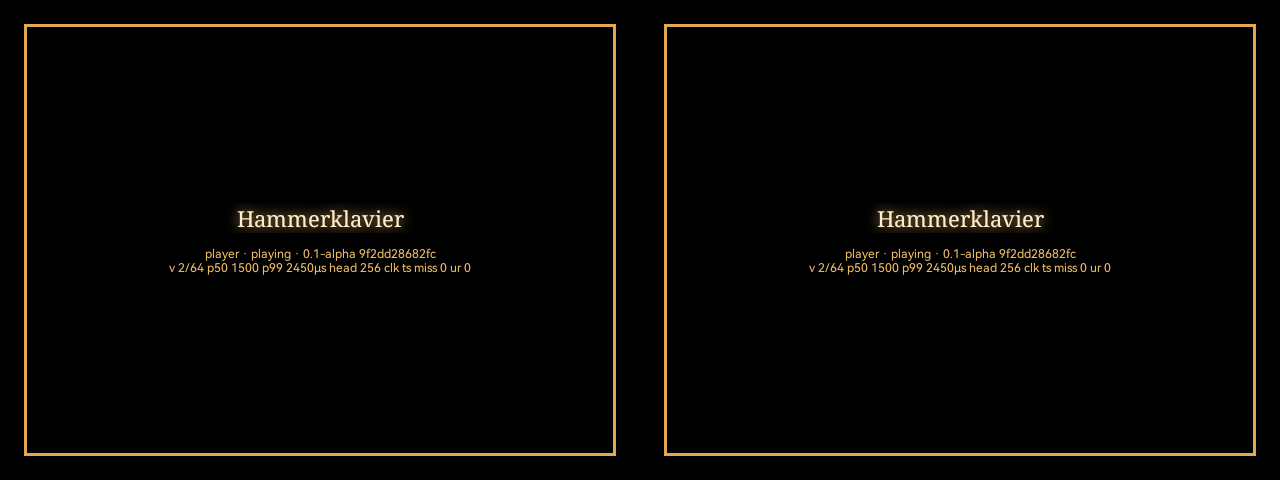
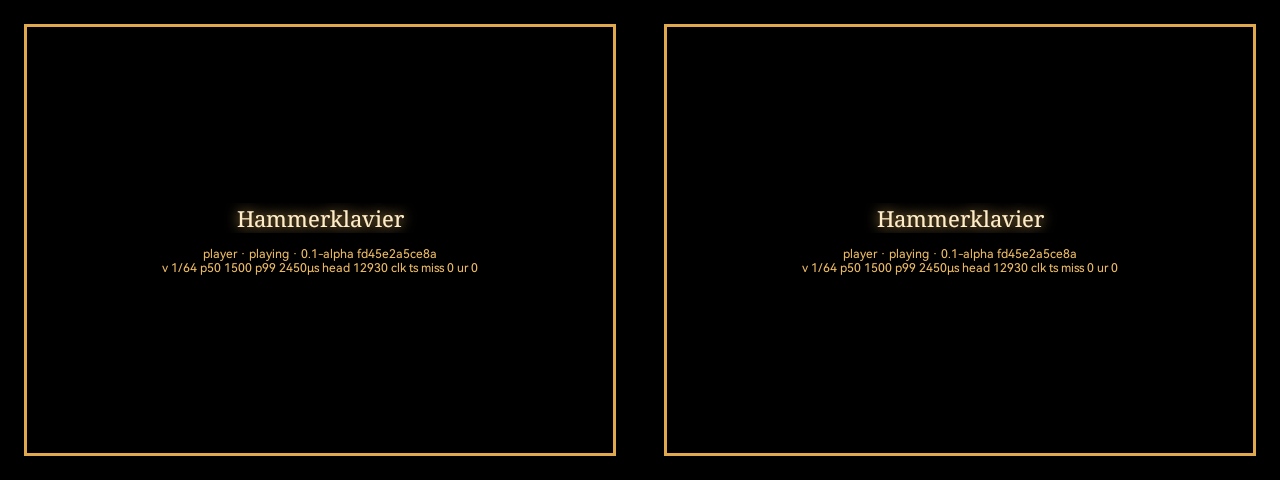
PerfProbe hitch detector and StubGlHost pacing off Choreographer (vendor ScrollOptimizer allocates ~1.5 KB per vsync; T-GC); request to WP6

Changed region(s): [[0.625, 0.5, 0.875, 0.5938], [0.125, 0.5, 0.375, 0.5938]]

diff --git a/app/src/main/java/com/tropicalstream/hammerklavier/contract/stub/android/StubGlHost.kt b/app/src/main/java/com/tropicalstream/hammerklavier/contract/stub/android/StubGlHost.kt
@@ -28,7 +28,7 @@ import javax.microedition.khronos.opengles.GL10
 /**
  * The GL host until WP6 merges (PLAN §2.2, M0): an ES 2.0 GLSurfaceView that clears to black
  * (transparent on the waveguide), logs the GL info once (`HKRender`), and draws a gilt test frame
- * in each eye's viewport with scissored clears (no shaders). Paced by Choreographer: every 6th
+ * in each eye's viewport with scissored clears (no shaders). Paced by a main Handler (M1: not Choreographer, see pace): every 6th
  * vsync (10 fps); nothing while paused or in display rest. RenderControl calls only set fields
  * (§2.1 rule 6); every GL call happens in onSurfaceCreated/onDrawFrame.
  */
@@ -37,6 +37,7 @@ class StubGlHost(ctx: Context) : GLSurfaceView(ctx), GlHost, GLSurfaceView.Rende
 
     @Volatile private var stereo = true
     @Volatile private var divider = 6
+    private val handler = android.os.Handler(android.os.Looper.getMainLooper())
     @Volatile private var resting = false
     @Volatile private var glInfo = ""
     @Volatile private var frames = 0
@@ -93,20 +94,23 @@ class StubGlHost(ctx: Context) : GLSurfaceView(ctx), GlHost, GLSurfaceView.Rende
         GLES20.glScissor(x, y, w, h); GLES20.glClear(GLES20.GL_COLOR_BUFFER_BIT)
     }
 
-    // ── Choreographer pacing (main) ──
-    override fun doFrame(frameTimeNanos: Long) {
-        if (!paced) return
-        if (++vsyncs >= divider) { vsyncs = 0; requestRender() }
-        Choreographer.getInstance().postFrameCallback(this)
+    // ── Pacing (main) ──
+    // A main-thread Handler tick, not a Choreographer frame callback: on this device Qualcomm's
+    // BoostFramework.ScrollOptimizer.setVsyncTime builds strings on every vsync a Choreographer
+    // delivers (~1.5 KB each, ~92 KB/s at 60 Hz), which alone broke T-GC at M1. The stub needs no
+    // vsync phase; WP6's renderer is told in docs/requests/WP6.md.
+    private val pace = object : Runnable {
+        override fun run() {
+            if (!paced) return
+            requestRender()
+            handler.postDelayed(this, divider * VSYNC_MS)
+        }
     }
+    override fun doFrame(frameTimeNanos: Long) {}
 
-    private fun startPacing() {
-        Choreographer.getInstance().removeFrameCallback(this)
-        paced = true
-        Choreographer.getInstance().postFrameCallback(this)
-    }
+    private fun startPacing() { handler.removeCallbacks(pace); paced = true; handler.post(pace) }
 
-    private fun stopPacing() { paced = false; Choreographer.getInstance().removeFrameCallback(this) }
+    private fun stopPacing() { paced = false; handler.removeCallbacks(pace) }
 
     // ── RenderControl (main): fields only ──
     override fun bind(clock: SongClock, energy: EnergyRing, mech: MechanicsEvaluator, scenes: SceneFactory) {}
@@ -132,4 +136,5 @@ class StubGlHost(ctx: Context) : GLSurfaceView(ctx), GlHost, GLSurfaceView.Rende
         out.fps = 0f; out.draws = 0; out.tris = 0; out.divider = divider; out.dipping = false; out.glGeneration = glGeneration
     }
     override fun diagnostics(): Map<String, String> = mapOf("gl" to glInfo, "frames" to frames.toString(), "host" to "StubGlHost")
+    private companion object { const val VSYNC_MS = 17L }
 }

diff --git a/app/src/main/java/com/tropicalstream/hammerklavier/system/PerfProbe.kt b/app/src/main/java/com/tropicalstream/hammerklavier/system/PerfProbe.kt
@@ -2,13 +2,12 @@ package com.tropicalstream.hammerklavier.system
 
 import android.os.Handler
 import android.util.Log
-import android.view.Choreographer
 import com.tropicalstream.hammerklavier.contract.HK
 import java.io.File
 
 /**
  * Performance probe (PLAN §2.2, §8.4), main thread:
- * - a frame-hitch detector: a main-thread Choreographer gap > 120 ms while [resumed] logs
+ * - a frame-hitch detector: the main thread blocked > 120 ms (a late heartbeat) while [resumed] logs
  *   `HKPerf FRAME HITCH <ms>` (smoke fails on it);
  * - `majflt` of one task (the HKAudio tid from [audioTid]) from `/proc/self/task/<tid>/stat` field 12;
  * - `scaling_cur_freq` per CPU and `time_in_state` deltas per policy;
@@ -22,15 +21,22 @@ class PerfProbe(private val main: Handler, private val audioTid: () -> Int = { -
     private var lastMajflt = -1L
     private val lastTis = HashMap<String, LongArray>()
 
-    private val frame = object : Choreographer.FrameCallback {
-        override fun doFrame(t: Long) {
+    /**
+     * Main-thread stall detector: a [BEAT_MS] Handler heartbeat; a beat arriving more than
+     * HITCH_MS late logs `FRAME HITCH <gap>ms`. Not a Choreographer frame callback: every vsync a
+     * Choreographer delivers runs Qualcomm's BoostFramework.ScrollOptimizer.setVsyncTime, which
+     * allocates ~1.5 KB per vsync (~92 KB/s, T-GC failed at M1).
+     */
+    private val frame = object : Runnable {
+        override fun run() {
             if (!resumed) return
+            val t = System.nanoTime()
             if (lastFrameNs != 0L) {
                 val gapMs = (t - lastFrameNs) / 1_000_000
-                if (gapMs > HITCH_MS) { hitches++; Log.w(HK.TAG_PERF, "FRAME HITCH ${gapMs}ms") }
+                if (gapMs - BEAT_MS > HITCH_MS) { hitches++; Log.w(HK.TAG_PERF, "FRAME HITCH ${gapMs - BEAT_MS}ms") }
             }
             lastFrameNs = t
-            Choreographer.getInstance().postFrameCallback(this)
+            main.postDelayed(this, BEAT_MS)
         }
     }
     private val tick = object : Runnable {
@@ -44,9 +50,8 @@ class PerfProbe(private val main: Handler, private val audioTid: () -> Int = { -
     fun setResumed(r: Boolean) {
         if (r == resumed) return
         resumed = r; lastFrameNs = 0L
-        val ch = Choreographer.getInstance()
-        ch.removeFrameCallback(frame)
-        if (r) ch.postFrameCallback(frame)
+        main.removeCallbacks(frame)
+        if (r) main.post(frame)
     }
 
     /** One HKPerf line: majflt (total, delta), CPU frequencies (MHz), time_in_state deltas (top 3 per policy). */
@@ -92,5 +97,5 @@ class PerfProbe(private val main: Handler, private val audioTid: () -> Int = { -
         }
     }
 
-    private companion object { const val HITCH_MS = 120L; const val PERIOD_MS = 10_000L }
+    private companion object { const val HITCH_MS = 120L; const val BEAT_MS = 50L; const val PERIOD_MS = 10_000L }
 }

diff --git a/docs/requests/WP6.md b/docs/requests/WP6.md
@@ -1,0 +1,13 @@
+# Requests to WP6 (from the integrator, M1, 2026-09-22)
+
+## Do not pace from a main-thread Choreographer frame callback (T-GC)
+On the X3 Pro every vsync that a Choreographer delivers runs Qualcomm's
+`android.util.BoostFramework$ScrollOptimizer.setVsyncTime` (reflectively, from
+`Choreographer$FrameDisplayEventReceiver.onVsync`), which builds strings: about 1.5 KB per vsync,
+~92 KB/s at 60 Hz, whenever *any* per-frame callback is pending (simpleperf, debug build). At M1
+this alone caused 3 GCs in 5 min (T-GC limit ≤ 2). The M0 `StubGlHost` pacing and PerfProbe's
+hitch detector were moved to main-thread `Handler` ticks; with both off Choreographer the app
+allocates ~28–36 KB/s and T-GC passes (1 GC in 5 min).
+§5.x's "Choreographer: every 2nd vsync" for `HkGlView` would bring the 92 KB/s back. Options:
+pace on GLThread with `eglSwapInterval(2)` in continuous mode, or a Handler tick corrected by the
+display's vsync period; re-run T-GC at M3 either way.
